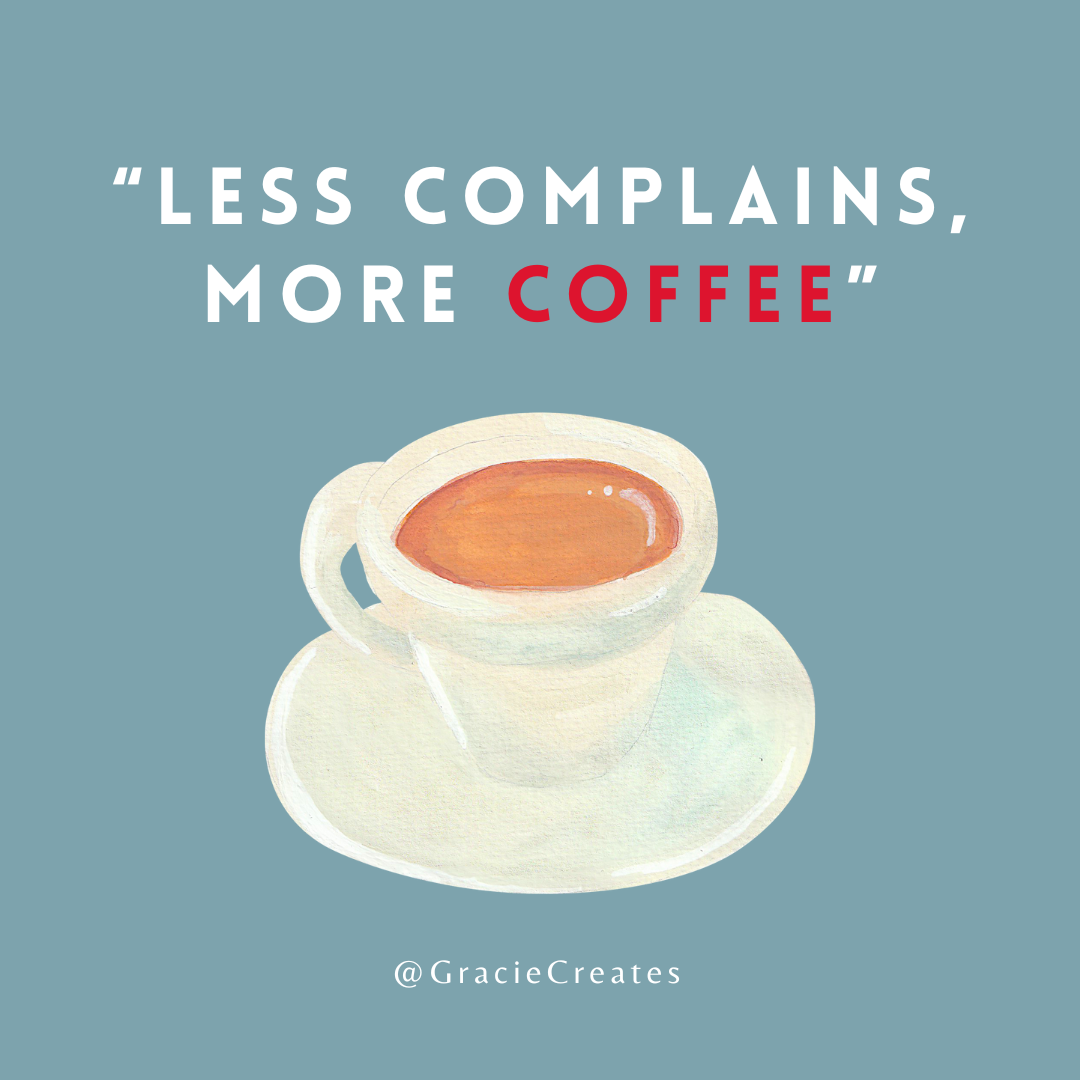
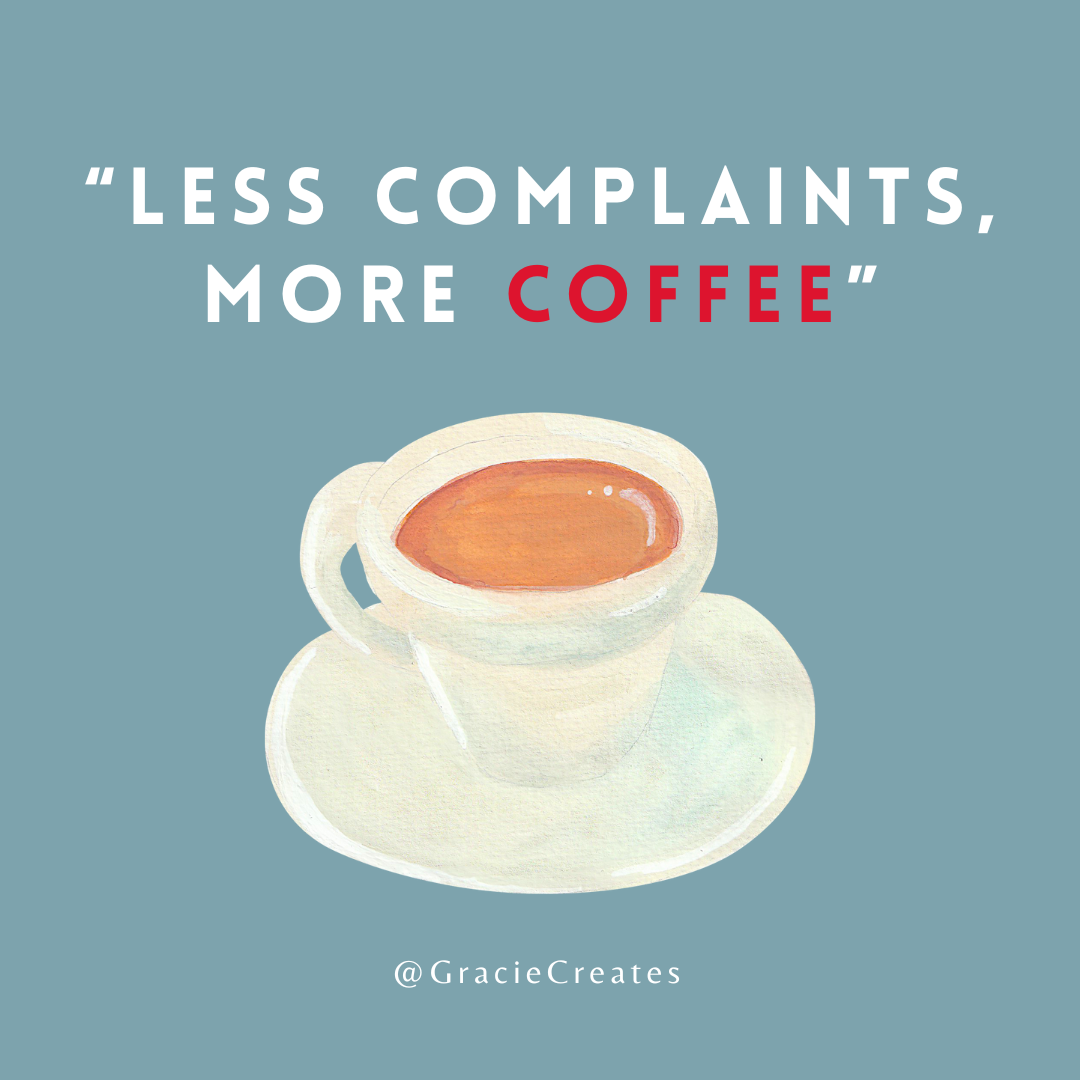
modified title

Changed region(s): [[0.0611, 0.1528, 0.9167, 0.2139]]

diff --git a/index.html b/index.html
@@ -14,7 +14,7 @@
 <body>
    
     <header class="header">
-        <div class="title"><h1>Caf·fein·at·ed</h1><p>Less Complains, More <span style="color:red;font-weight: bold;">Coffee</span></p>
+        <div class="title"><h1>Caf·fein·at·ed</h1><p>Less Complaints, More <span style="color:red;font-weight: bold;">Coffee</span></p>
         </div>
         
         <button id="dark-mode-btn" class="dark-mode-toggle" onclick="toggleDarkMode()">Dark Mode</button>

diff --git a/READEME.md b/READEME.md
@@ -1,5 +1,5 @@
 # Coffee Quote Minsite
-[**Demo**](https://www.example.com)
+[**Demo**](https://graciecreates.github.io/coffee-quote-minisite/)
 ![alt text](Caffeinated.png)
 ---
 ## **Project Overview:**
